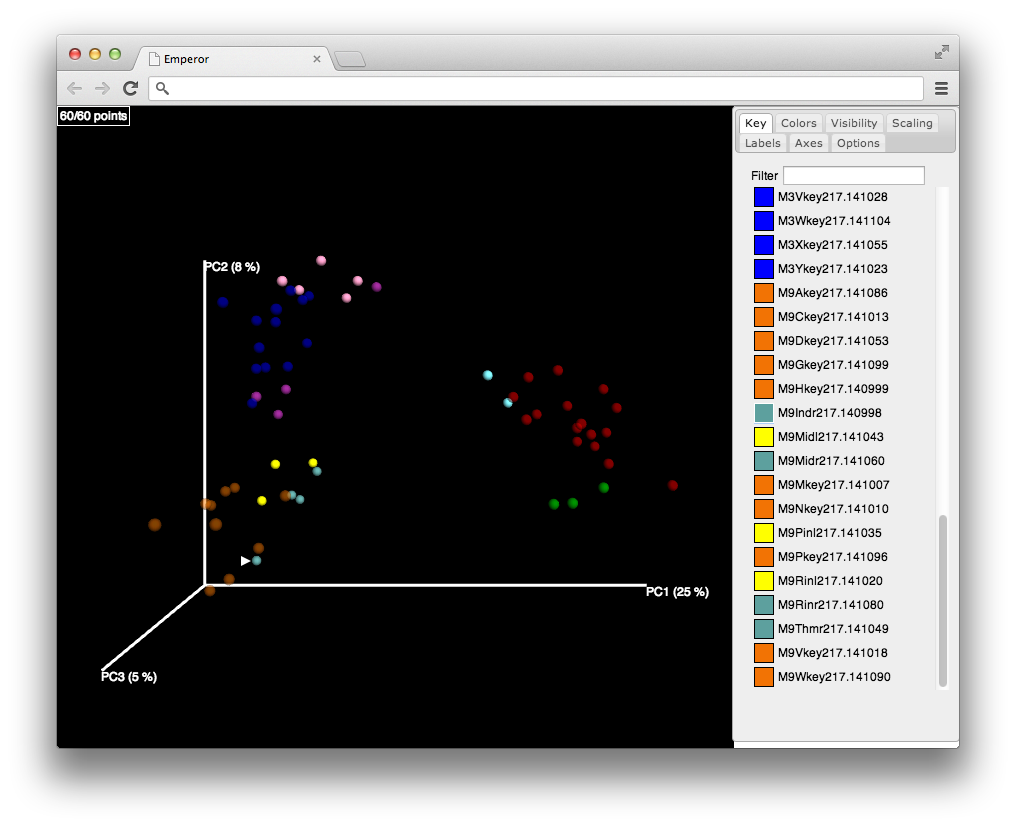
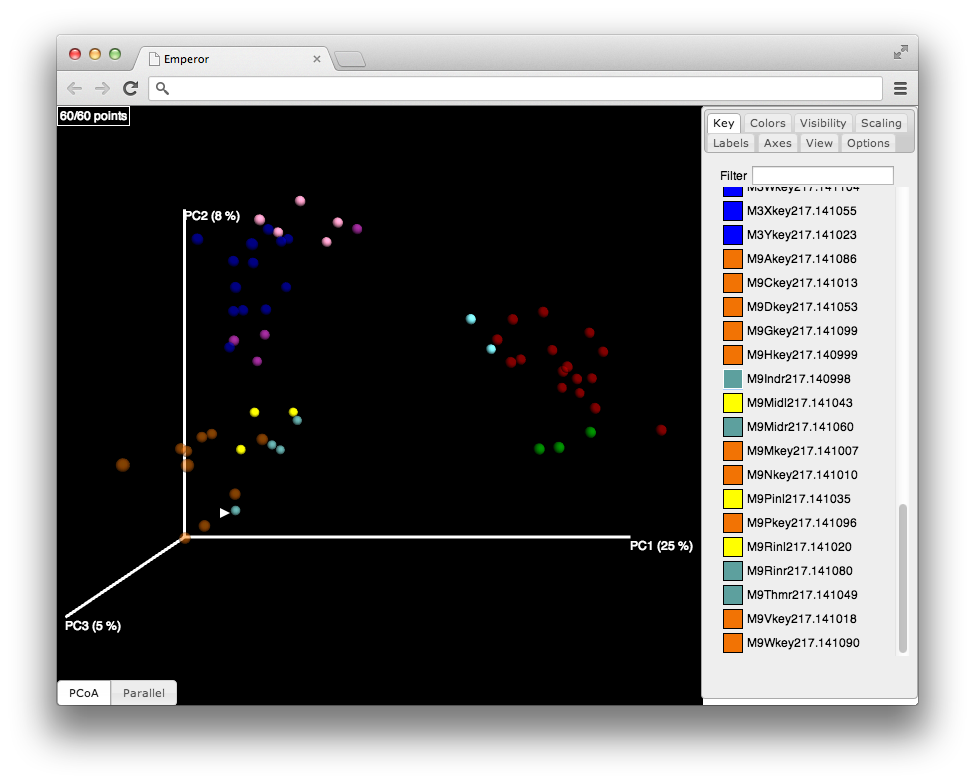
Update tutorial images and text
These updates were required based on the latest changes that have
ocurred in the repository.

diff --git a/doc/tutorial_index.html b/doc/tutorial_index.html
@@ -155,7 +155,7 @@
           </p>
           <p align="center"><img src="img/tutorial/2.png" alt="HOST_SUBJECT_ID Coloring"></p>
           <p class="lead" align="justify">
-            To change the color of the samples categorized as <code>232:M9</code>, click on the green square by the left side of this label, a color palette should appear on screen, select a new color like yellow and once you are happy with the selection click the button choose (see the following figure).
+            To change the color of the samples categorized as <code>232:M3</code>, click on the green square by the left side of this label, a color palette should appear on screen, select a new color like yellow and once you are happy with the selection click the button choose (see the following figure).
           </p>
           <p align="center"><img src="img/tutorial/capture_2.png" alt="Three panels"></p>
           <p class="lead" align="justify">
@@ -163,7 +163,7 @@
           </p>
           <p align="center"><img src="img/tutorial/6.png" alt="Opacity reduction"></p>
           <p class="lead" align="justify">
-            Now let’s go back to the coloring and select a coloring by the category that we created by combining <code>HAND</code> and <code>HOST_SUBJECT_ID</code>, should be named <code>HAND&&HOST_SUBJECT_ID</code>. A nice gradient will be shown in the per-category coloring, which although useful for continuous data in a mapping file, is not convenient in this case, so go to the options menu and click the “use discrete colors” checkbox. This will change the color mapping from a continuous gradient to discrete and dissimilar colors that can be differentiated at a first glance.
+            Now let’s go back to the coloring and select a coloring by the category that we created by combining <code>HAND</code> and <code>HOST_SUBJECT_ID</code>, should be named <code>HAND&&HOST_SUBJECT_ID</code>. A nice gradient will be shown in the per-category coloring, which although useful for continuous data in a mapping file, is not convenient in this case, so go to the view menu and click the “use discrete colors” checkbox. This will change the color mapping from a continuous gradient to discrete and dissimilar colors that can be differentiated at a first glance.
           </p>
           <p align="center"><img src="img/tutorial/treta.png" alt="To Discrete"></p>
           <p class="lead" align="justify">
@@ -171,7 +171,7 @@
           </p>
           <p align="center"><img src="img/tutorial/10.png" alt="Filter"></p>
           <p class="lead" align="justify">
-            An approach that’s often times used to analyze this data, is to scale the coordinates by the percents explained in each axis, to do this go to the options tab and check the “scale coords by percent explained”. What this will functionally do is multiply the values of the data for all the samples by the percent that’s explained from the PCoA analysis. In this case PC1 will be scaled by 0.25, PC2 by 0.08 and PC3 by 0.05. 
+            Often times PCoA data will span over more than three dimensions, other dimensions can be visualized using the axes menu; select the three coordinate axes that you want your data to be shaped by and hit the refresh button.
           </p>
           <p align="center"><img src="img/tutorial/exes.png" alt="Filter"></p>
           <p class="lead" align="justify">
